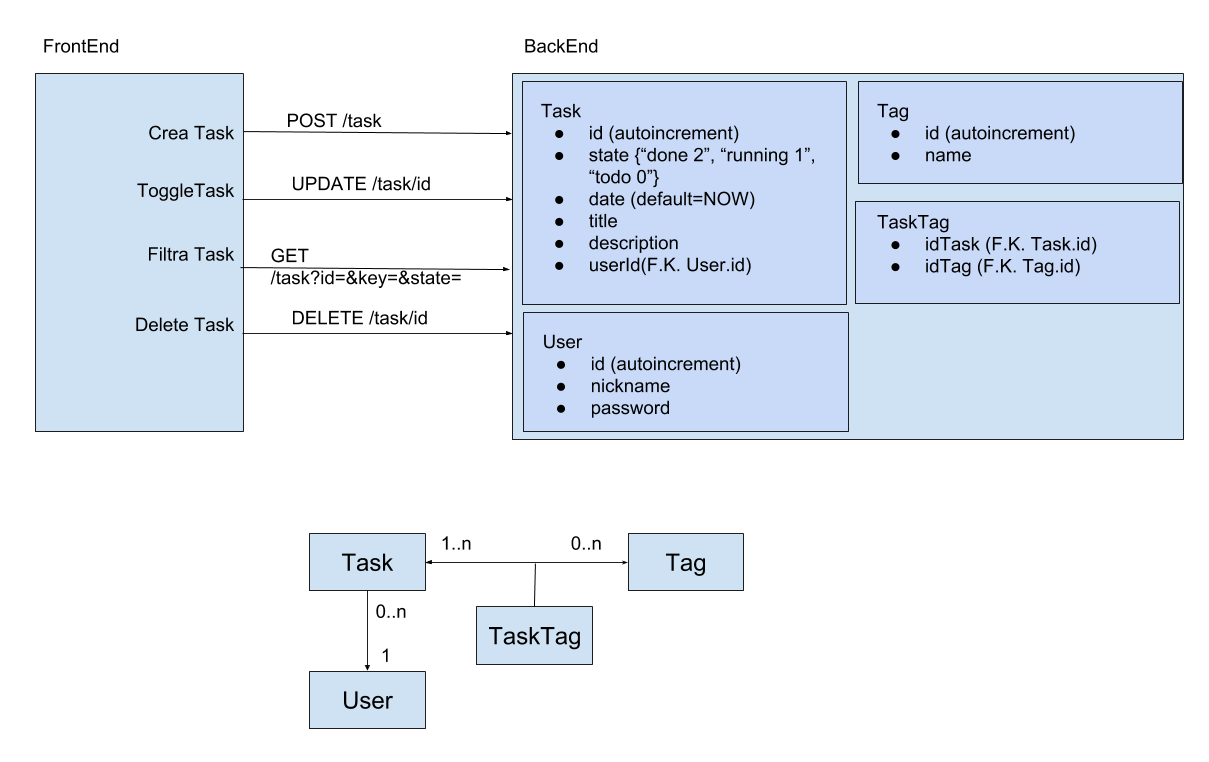
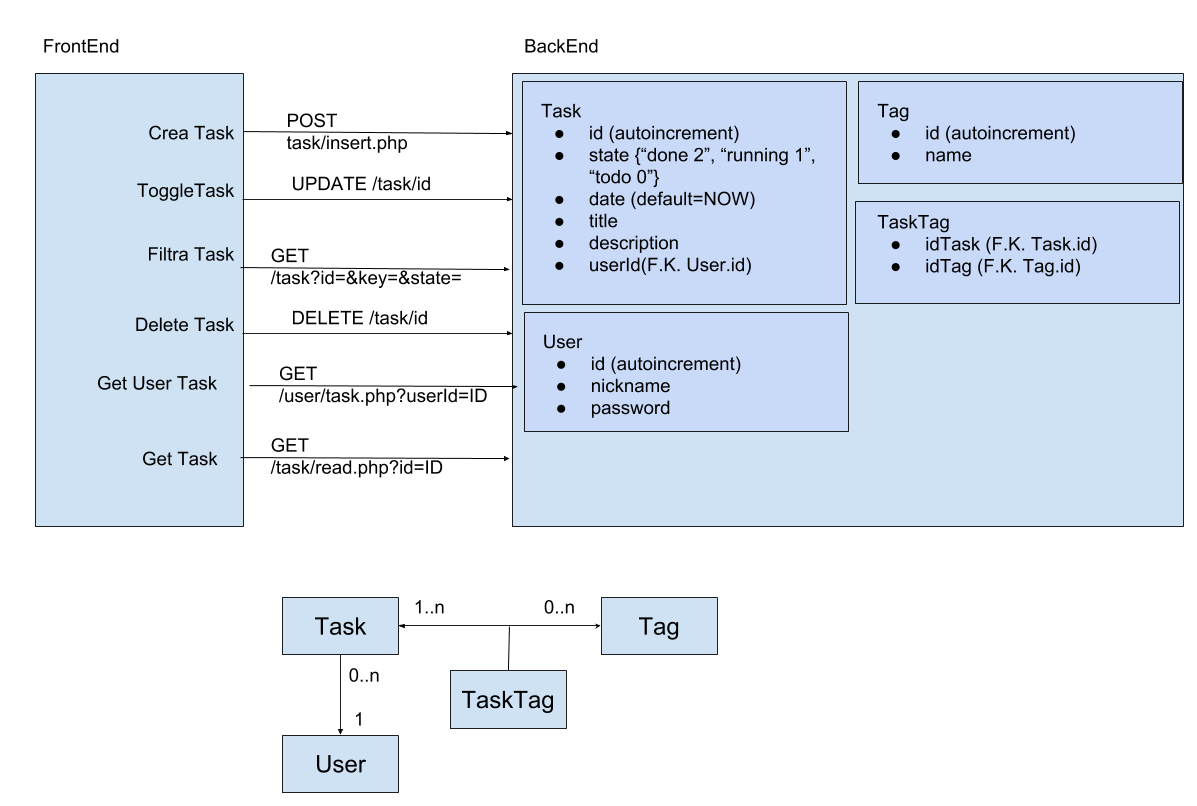
update documentation

Changed region(s): [[0.0309, 0.0302, 0.9891, 0.664], [0.2164, 0.6942, 0.6182, 0.9961], [0.68, 0.5131, 0.7109, 0.5433]]

diff --git a/README.md b/README.md
@@ -10,7 +10,7 @@
 ### Task  
     CREATE TABLE `my_db`.`Task` (
         `id` INT(10) NOT NULL AUTO_INCREMENT , 
-        `state` INT(1) NOT NULL DEFAULT '0' COMMENT 'todo 0, running 1, done 2' ,
+        `state` INT(1) NOT NULL DEFAULT '1' COMMENT 'todo 1, running 2, done 3' ,
         `date` DATETIME NOT NULL DEFAULT CURRENT_TIMESTAMP , 
         `title` VARCHAR(25) CHARACTER SET utf8 COLLATE utf8_bin NOT NULL , 
         `description` TEXT CHARACTER SET utf8 COLLATE utf8_bin NOT NULL , 
